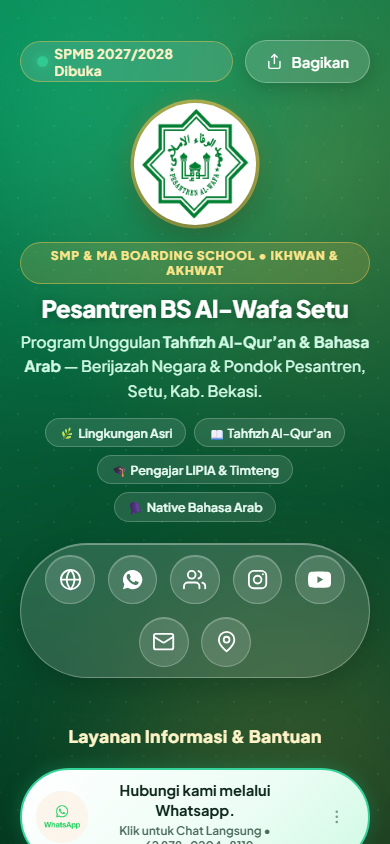
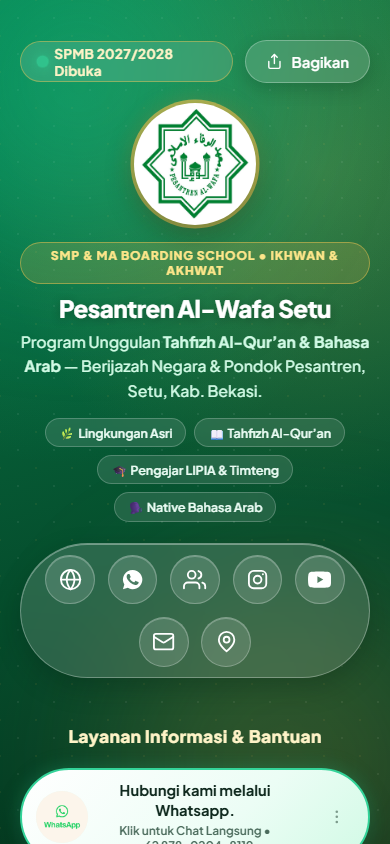
fix: update Al-Wafa title & shot, reorder hero phones, reverse timeline

Changed region(s): [[0.0923, 0.3389, 0.8923, 0.4005]]

diff --git a/css/style.css b/css/style.css
@@ -157,28 +157,28 @@ h2 { font-size: clamp(32px, 4.5vw, 52px); }
 .hero-visual { position: relative; height: 580px; }
 .phones { position: absolute; inset: 0; }
 .phone {
-  position: absolute; width: 230px; aspect-ratio: 9 / 19.2; border-radius: 34px; padding: 9px;
-  background: linear-gradient(145deg, #2a2a3a, #12121c); border: 1px solid rgba(255,255,255,.12);
-  box-shadow: 0 30px 80px rgba(0,0,0,.6), inset 0 0 0 1px rgba(255,255,255,.04);
+  position: absolute; width: 228px; aspect-ratio: 9 / 19.2; border-radius: 34px; padding: 16px 8px 8px;
+  background: linear-gradient(145deg, #2a2a3a, #12121c); border: 1px solid rgba(255,255,255,.14);
+  box-shadow: 0 30px 80px rgba(0,0,0,.65), inset 0 0 0 1px rgba(255,255,255,.04);
   transition: transform .8s var(--ease);
 }
-.phone::before { content: ""; position: absolute; top: 15px; left: 50%; transform: translateX(-50%); width: 70px; height: 20px; border-radius: 20px; background: #000; z-index: 2; }
-.phone-screen { width: 100%; height: 100%; border-radius: 26px; overflow: hidden; background: var(--bg-2); position: relative; }
+.phone::before { content: ""; position: absolute; top: 6px; left: 50%; transform: translateX(-50%); width: 46px; height: 5px; border-radius: 99px; background: rgba(255,255,255,.16); z-index: 2; }
+.phone-screen { width: 100%; height: 100%; border-radius: 25px; overflow: hidden; background: var(--bg-2); position: relative; }
 .phone-screen img { position: relative; z-index: 1; width: 100%; height: 100%; object-fit: cover; object-position: top; }
-.phone.p1 { left: 50%; top: 40px; transform: translateX(-50%) rotate(0deg); z-index: 3; }
-.phone.p2 { left: 4%; top: 100px; transform: rotate(-10deg) scale(.88); z-index: 2; opacity: .9; }
-.phone.p3 { right: 4%; top: 100px; transform: rotate(10deg) scale(.88); z-index: 1; opacity: .9; }
-.hero-visual:hover .phone.p2 { transform: rotate(-14deg) scale(.9) translateX(-20px); }
-.hero-visual:hover .phone.p3 { transform: rotate(14deg) scale(.9) translateX(20px); }
+.phone.p1 { left: 50%; top: 32px; transform: translateX(-50%) rotate(0deg); z-index: 3; }
+.phone.p2 { left: 0; top: 88px; transform: rotate(-11deg) scale(.88); z-index: 2; opacity: .94; }
+.phone.p3 { right: 0; top: 88px; transform: rotate(11deg) scale(.88); z-index: 2; opacity: .94; }
+.hero-visual:hover .phone.p2 { transform: rotate(-14deg) scale(.9) translateX(-18px); }
+.hero-visual:hover .phone.p3 { transform: rotate(14deg) scale(.9) translateX(18px); }
 .hero-visual:hover .phone.p1 { transform: translateX(-50%) translateY(-10px); }
 .float-chip {
-  position: absolute; z-index: 5; padding: 9px 14px; border-radius: 14px; font-size: 13px; font-weight: 700;
-  background: rgba(20, 20, 32, .75); border: 1px solid var(--border-2); backdrop-filter: blur(10px);
-  animation: bob 5s ease-in-out infinite; box-shadow: 0 10px 30px rgba(0,0,0,.4);
+  position: absolute; z-index: 5; padding: 8px 13px; border-radius: 14px; font-size: 12.5px; font-weight: 700;
+  background: rgba(16, 16, 26, .82); border: 1px solid var(--border-2); backdrop-filter: blur(10px);
+  animation: bob 5s ease-in-out infinite; box-shadow: 0 10px 30px rgba(0,0,0,.45);
 }
-.c1 { top: 30px; left: 6%; }
-.c2 { bottom: 70px; left: 0; animation-delay: -1.6s; }
-.c3 { top: 200px; right: -2%; animation-delay: -3.2s; }
+.c1 { top: 14px; left: 4%; }
+.c2 { bottom: 26px; left: 0; animation-delay: -1.6s; }
+.c3 { top: 20px; right: 2%; animation-delay: -3.2s; }
 @keyframes bob { 50% { transform: translateY(-12px); } }
 
 /* fallback "screenshot" */
@@ -260,7 +260,7 @@ h2 { font-size: clamp(32px, 4.5vw, 52px); }
 .skills span { padding: 8px 14px; border-radius: 12px; font-size: 13px; font-weight: 600; border: 1px solid var(--border-2); background: rgba(255,255,255,.03); transition: all .25s; }
 .skills span:hover { border-color: var(--cyan); color: var(--cyan); transform: translateY(-2px); }
 .timeline ol { list-style: none; margin: 10px 0 0; padding: 0 0 0 22px; position: relative; }
-.timeline ol::before { content: ""; position: absolute; left: 5px; top: 8px; bottom: 8px; width: 2px; background: linear-gradient(var(--violet), var(--cyan), var(--lime)); border-radius: 2px; }
+.timeline ol::before { content: ""; position: absolute; left: 5px; top: 8px; bottom: 8px; width: 2px; background: linear-gradient(var(--lime), var(--cyan), var(--violet)); border-radius: 2px; }
 .timeline li { position: relative; padding: 0 0 26px 18px; }
 .timeline li:last-child { padding-bottom: 0; }
 .timeline li::before { content: ""; position: absolute; left: -22px; top: 6px; width: 12px; height: 12px; border-radius: 50%; background: var(--bg); border: 2px solid var(--cyan); }

diff --git a/index.html b/index.html
@@ -17,7 +17,7 @@
   <link rel="preconnect" href="https://fonts.googleapis.com" />
   <link rel="preconnect" href="https://fonts.gstatic.com" crossorigin />
   <link href="https://fonts.googleapis.com/css2?family=Plus+Jakarta+Sans:wght@400;500;600;700;800&family=Space+Grotesk:wght@500;600;700&display=swap" rel="stylesheet" />
-  <link rel="stylesheet" href="css/style.css" />
+  <link rel="stylesheet" href="css/style.css?v=2" />
 </head>
 <body data-mode="portfolio">
   <!-- Background layers -->
@@ -157,10 +157,15 @@
       <div class="timeline reveal">
         <span class="kicker">Perjalanan</span>
         <ol>
+          <li class="now">
+            <time>Sekarang</time>
+            <h4>Terbuka untuk proyek berikutnya</h4>
+            <p>Butuh link hub atau landing page? Mari diskusikan.</p>
+          </li>
           <li>
-            <time>2024</time>
-            <h4>Masuk Politeknik IDN Bogor</h4>
-            <p>Mulai kuliah di jurusan TRKJ — Teknologi Rekayasa Komputer Jaringan.</p>
+            <time>2025 — 2026</time>
+            <h4>Redesign Link Hub &amp; Website</h4>
+            <p>Membangun web untuk kampus, pesantren, sekolah, dan toko rekomendasi gadget.</p>
           </li>
           <li>
             <time>Jun 2025</time>
@@ -168,14 +173,9 @@
             <p>Rangkuman 1 tahun belajar TRKJ, terverifikasi resmi di IDN Showcase.</p>
           </li>
           <li>
-            <time>2025 — 2026</time>
-            <h4>Redesign Link Hub &amp; Website</h4>
-            <p>Membangun web untuk kampus, pesantren, sekolah, dan toko rekomendasi gadget.</p>
-          </li>
-          <li class="now">
-            <time>Sekarang</time>
-            <h4>Terbuka untuk proyek berikutnya</h4>
-            <p>Butuh link hub atau landing page? Mari diskusikan.</p>
+            <time>2024</time>
+            <h4>Masuk Politeknik IDN Bogor</h4>
+            <p>Mulai kuliah di jurusan TRKJ — Teknologi Rekayasa Komputer Jaringan.</p>
           </li>
         </ol>
       </div>
@@ -296,7 +296,7 @@
 
   <div class="toast" id="toast" role="status" aria-live="polite"></div>
 
-  <script src="js/data.js"></script>
-  <script src="js/main.js"></script>
+  <script src="js/data.js?v=2"></script>
+  <script src="js/main.js?v=2"></script>
 </body>
 </html>

diff --git a/js/main.js b/js/main.js
@@ -47,7 +47,7 @@
     const num = P.waBytes.map((b) => String.fromCharCode((b ^ P.waKey) & 0xff)).join("");
     return /^\d{10,15}$/.test(num) ? num : "";
   };
-  const shot = (p) => `assets/shots/${encodeURIComponent(p.id)}.png`;
+  const shot = (p) => `assets/shots/${encodeURIComponent(p.id)}.png?v=2`;
 
   const ICON = {
     eye: '<svg viewBox="0 0 24 24"><path d="M2 12s3.5-7 10-7 10 7 10 7-3.5 7-10 7S2 12 2 12z"/><circle cx="12" cy="12" r="3"/></svg>',
@@ -69,11 +69,15 @@
   const screen = (p, eager = false) =>
     `<div class="phone-screen"><div class="shot-fallback" style="background:hsl(${+p.hue || 0} 40% 14%)">${esc(p.emoji)}</div>${imgTag(p, eager)}</div>`;
 
-  /* ---------------- Render: hero phones ---------------- */
+  /* ---------------- Render: hero phones (Kiri: SDIT MK, Tengah: Politeknik, Kanan: Al-Wafa) ---------------- */
   const byId = (id) => PROJECTS.find((p) => p.id === id);
-  const heroPick = ["sdit", "alwafa", "pmb"].map(byId).filter(Boolean);
-  $("#hero-phones").innerHTML = heroPick
-    .map((p, i) => `<div class="phone p${i + 1}">${screen(p, true)}</div>`)
+  const heroSlots = [
+    { cls: "p2", p: byId("sdit") },   // Kiri: SDIT Menara Kuwait
+    { cls: "p1", p: byId("pmb") },    // Tengah: Politeknik IDN
+    { cls: "p3", p: byId("alwafa") }, // Kanan: Pesantren Al-Wafa
+  ].filter((s) => s.p);
+  $("#hero-phones").innerHTML = heroSlots
+    .map((s) => `<div class="phone ${s.cls}">${screen(s.p, true)}</div>`)
     .join("");
 
   /* ---------------- Render: project cards ---------------- */

diff --git a/js/data.js b/js/data.js
@@ -53,7 +53,7 @@
     },
     {
       id: "alwafa",
-      title: "Pesantren BS Al-Wafa Setu Bekasi",
+      title: "Pesantren Al-Wafa Setu Bekasi",
       type: "Redesign Link Hub",
       desc: "Hub link resmi SPMB untuk SMP & MA Boarding School — brosur, WhatsApp, email, dan program unggulan Tahfizh Al-Qur'an & Bahasa Arab.",
       url: "https://abdulfattah105-ne.github.io/alwafa-web/",
